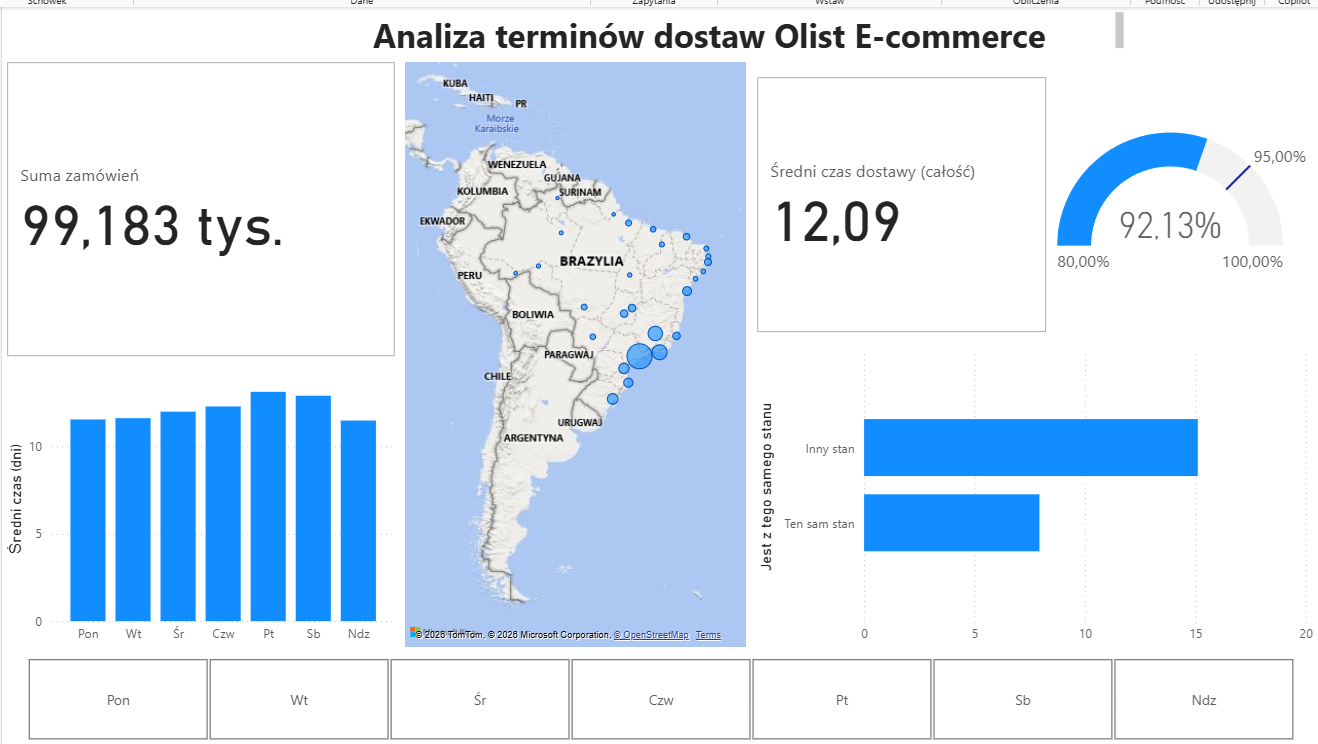
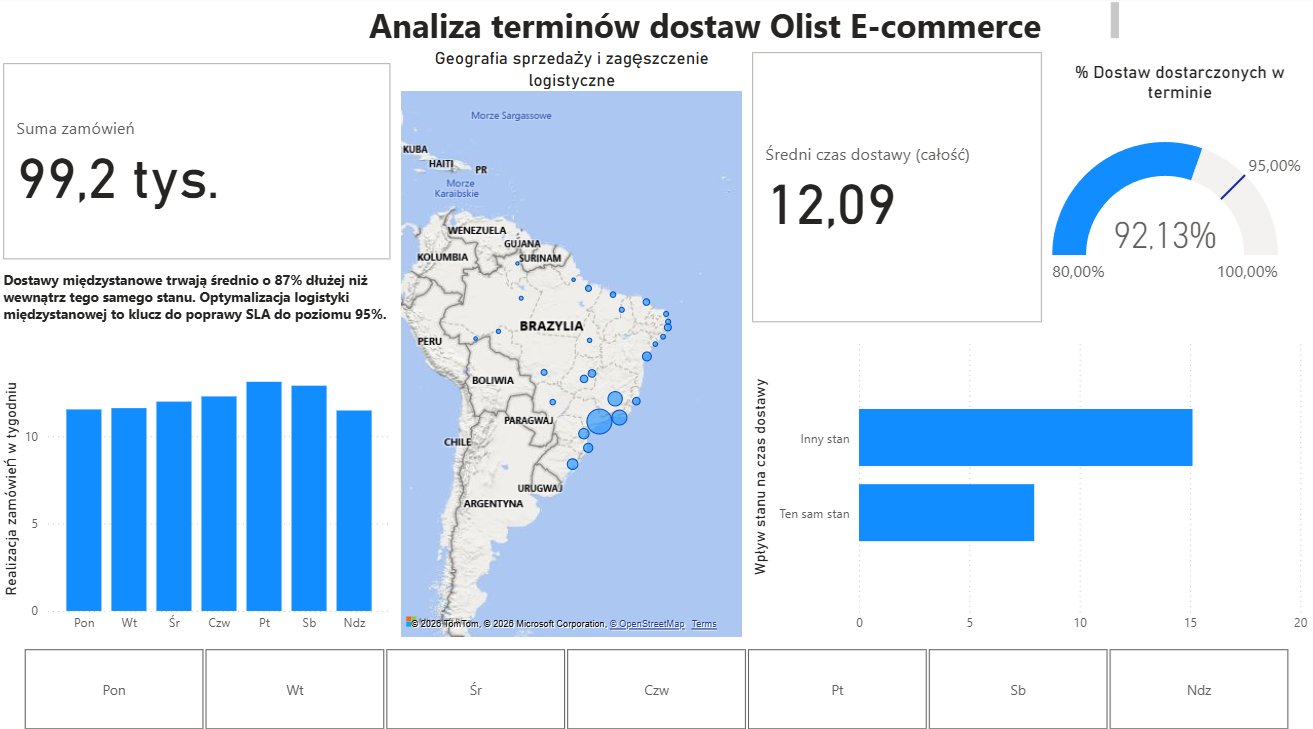
finalne czyszczenie skryptów i poprawki w dashboardzie Power BI

diff --git a/scripts/geo_analysis.py b/scripts/geo_analysis.py
@@ -3,30 +3,33 @@ import sqlite3
 
 conn = sqlite3.connect('olist_ecommerce.db')
 
-query = ("""WITH clientOrder AS (
-                    SELECT c.customer_state, 
-                    o.order_id, 
-                    (julianday(o.order_delivered_customer_date) - julianday(o.order_purchase_timestamp)) AS 'actual_delivery_time'
-                    FROM olist_customers_dataset c
-                    JOIN olist_orders_dataset o ON
-                    c.customer_id = o.customer_id),
-                    sellerOrder AS (
-                    SELECT DISTINCT i.order_id, s.seller_state
-                    FROM olist_order_items_dataset i
-                    JOIN olist_sellers_dataset s
-                    ON i.seller_id = s.seller_id)
-                
-                    SELECT co.order_id,
-                     co.actual_delivery_time,
-                     co.customer_state,
-                     so.seller_state,
-                     CASE
-                        WHEN co.customer_state = so.seller_state THEN 1
-                        ELSE 0
-                    END AS is_same_state
-                    FROM clientOrder co
-                    JOIN sellerOrder so
-                    ON so.order_id = co.order_id""")
+query = """
+WITH clientOrder AS (
+    SELECT 
+        c.customer_state, 
+        o.order_id, 
+        (julianday(o.order_delivered_customer_date) - julianday(o.order_purchase_timestamp)) AS 'actual_delivery_time'
+    FROM olist_customers_dataset c
+    JOIN olist_orders_dataset o ON c.customer_id = o.customer_id
+),
+sellerOrder AS (
+    SELECT DISTINCT 
+        i.order_id, 
+        s.seller_state
+    FROM olist_order_items_dataset i
+    JOIN olist_sellers_dataset s ON i.seller_id = s.seller_id
+)         
+SELECT 
+    co.order_id,
+    co.actual_delivery_time,
+    co.customer_state,
+    so.seller_state,
+    CASE
+        WHEN co.customer_state = so.seller_state THEN 1
+        ELSE 0
+    END AS is_same_state
+FROM clientOrder co
+JOIN sellerOrder so ON so.order_id = co.order_id"""
 
 geo_analysis = pd.read_sql_query(query, conn)
 

diff --git a/scripts/visualization.py b/scripts/visualization.py
@@ -4,29 +4,30 @@ import matplotlib.pyplot as plt
 import seaborn as sns
 
 conn = sqlite3.connect('olist_ecommerce.db')
+df = pd.read_sql_query("SELECT * FROM olist_orders_features", conn)
 
-df_orders_feat = pd.read_sql_query("SELECT * FROM olist_orders_features", conn)
-
-
+#konfiguracja stylu
 sns.set_style("whitegrid")
 plt.figure(figsize=(12,6))
+
+
+#wykres 1: histogram czasu dostawy
 plt.subplot(1, 2, 1)
-
-sns.histplot(df_orders_feat['actual_delivery_time'].dropna(), bins=50, kde=True, color='teal')
-
+sns.histplot(df['actual_delivery_time'].dropna(), bins=50, kde=True, color='teal')
 plt.xlim(0, 60)
 plt.title('Rozkład czasu dostawy zamówień')
 plt.xlabel('Liczba dni')
 plt.ylabel('Liczba zamówień')
 
+
+#wykres 2: zamówienia w dniach tygodnia
 plt.subplot(1, 2, 2)
 mapa_dni = {0: 'Pon', 1: 'Wt', 2: 'Śr', 3: 'Czw', 4: 'Pt', 5: 'Sb', 6: 'Ndz'}
-df_orders_feat['day_name'] = df_orders_feat['order_day'].map(mapa_dni)
-sns.countplot(df_orders_feat, x=df_orders_feat['day_name'], order=['Pon', 'Wt', 'Śr', 'Czw', 'Pt', 'Sb', 'Ndz'])
-plt.title('Rozkład czasu dostawy zamówień')
-plt.ylabel('Liczba dni')
-plt.xlabel('Liczba zamówień')
-
+df['day_name'] = df['order_day'].map(mapa_dni)
+sns.countplot(df, x=df['day_name'], order=['Pon', 'Wt', 'Śr', 'Czw', 'Pt', 'Sb', 'Ndz'])
+plt.title('Liczba zamówień w dniach tygodnia')
+plt.xlabel('Dzień tygodnia')
+plt.ylabel('Liczba zamówień')
 
 plt.tight_layout()
 plt.show()

diff --git a/scripts/feature_engineering.py b/scripts/feature_engineering.py
@@ -1,0 +1,29 @@
+import sqlite3
+import pandas as pd
+
+conn = sqlite3.connect('olist_ecommerce.db')
+
+#pobranie danych
+df_orders = pd.read_sql_query("SELECT * FROM olist_orders_dataset", conn)
+
+
+#rzutowanie dat
+date_cols = ['order_delivered_customer_date',
+             'order_estimated_delivery_date',
+             'order_purchase_timestamp']
+
+df_orders[date_cols] = df_orders[date_cols].apply(pd.to_datetime)
+
+#czas, który pozostał do szacowanej dostawy (wartości ujemne = spóźnienie)
+df_orders['time_rest'] = (df_orders['order_estimated_delivery_date'] - df_orders['order_delivered_customer_date']).dt.days
+
+#faktyczny czas dostawy
+df_orders['actual_delivery_time'] = (df_orders['order_delivered_customer_date'] - df_orders['order_purchase_timestamp']).dt.days
+
+#dzień tygodnia (0 = Poniedziałek, 6 = Niedziela)
+df_orders['order_day'] = df_orders['order_purchase_timestamp'].dt.dayofweek
+
+#zapis do nowej tabeli
+df_orders.to_sql('olist_orders_features', conn, if_exists="replace", index=False)
+
+conn.close()

diff --git a/scripts/build_db.py b/scripts/build_db.py
@@ -1,0 +1,25 @@
+import sqlite3
+import pandas as pd
+import os
+
+
+
+
+DATA_DIR = r'../data'
+conn = sqlite3.connect('olist_ecommerce.db')
+
+file_list = os.listdir(DATA_DIR)
+
+for file_name in file_list:
+    if file_name.endswith('.csv'):
+        table_name = os.path.splitext(file_name)[0]
+        full_path = os.path.join(DATA_DIR, file_name)
+
+        try:
+            # wczytanie plików csv i zrzut do SQL
+            df_tmp = pd.read_csv(full_path)
+            df_tmp.to_sql(table_name, conn, if_exists='replace', index=False)
+        except Exception as e:
+            print(f"Nieudane otworzenie pliku {file_name}: {e}")
+
+conn.close()
